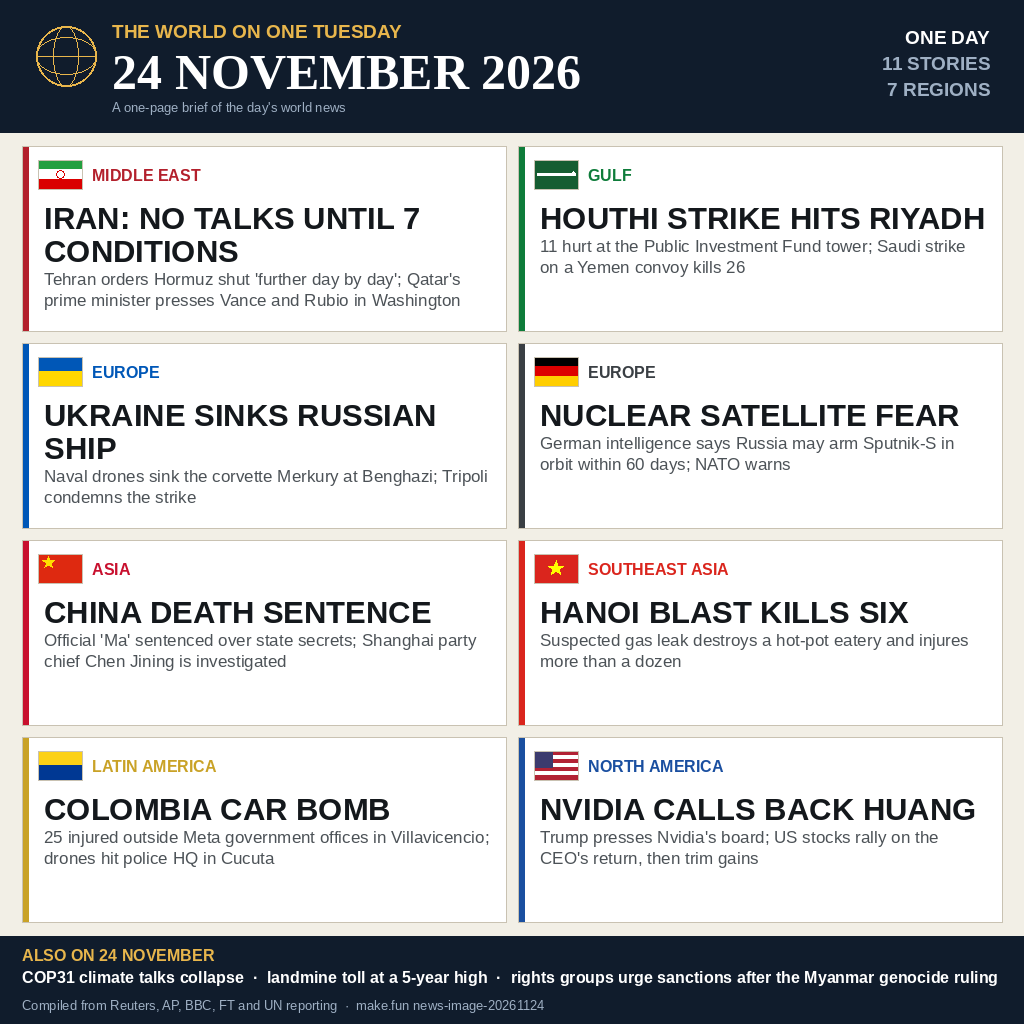
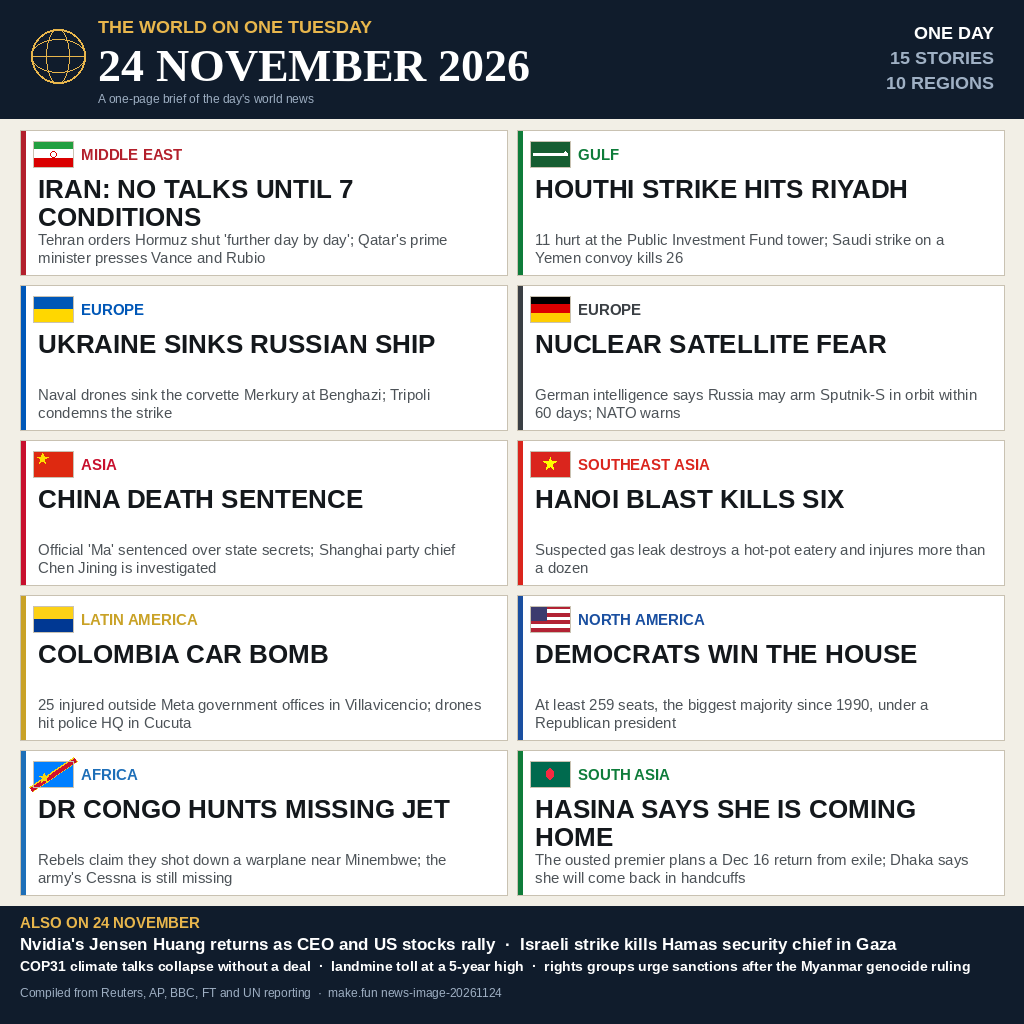
Widen the brief to ten regions and fifteen dated stories

diff --git a/render_entry.py b/render_entry.py
@@ -3,8 +3,8 @@
 Draw the entry image for the make.fun "news-image-20261124" competition.
 
 The picture is a one-page world-news brief for Tuesday, 24 November 2026: a
-masthead carrying the date, eight cards covering seven regions, and a footer
-strip of three shorter world headlines.
+masthead carrying the date, ten cards covering ten regions, and a footer
+strip of five shorter world headlines.
 
 Every card carries a small flat flag drawn from rectangles and polygons, not
 from an emoji glyph, so no character can fall back to an empty box on a
@@ -39,13 +39,13 @@ SANS = os.path.join(FONT_DIR, "LiberationSans-Regular.ttf")
 SANS_BOLD = os.path.join(FONT_DIR, "LiberationSans-Bold.ttf")
 SERIF_BOLD = os.path.join(FONT_DIR, "LiberationSerif-Bold.ttf")
 
-f_date = ImageFont.truetype(SERIF_BOLD, 50)
-f_kicker = ImageFont.truetype(SANS_BOLD, 19)
-f_region = ImageFont.truetype(SANS_BOLD, 16)
-f_head = ImageFont.truetype(SANS_BOLD, 31)
-f_sub = ImageFont.truetype(SANS, 17)
-f_foot = ImageFont.truetype(SANS_BOLD, 20)
-f_small = ImageFont.truetype(SANS, 13)
+f_date = ImageFont.truetype(SERIF_BOLD, 46)
+f_kicker = ImageFont.truetype(SANS_BOLD, 18)
+f_region = ImageFont.truetype(SANS_BOLD, 15)
+f_head = ImageFont.truetype(SANS_BOLD, 26)
+f_sub = ImageFont.truetype(SANS, 15)
+f_foot = ImageFont.truetype(SANS_BOLD, 17)
+f_small = ImageFont.truetype(SANS, 12)
 
 img = Image.new("RGB", (W, H), PAPER)
 d = ImageDraw.Draw(img)
@@ -68,7 +68,7 @@ def wrap(text, font, max_w):
     return lines
 
 
-def fit(text, font_path, max_w, start_size, floor_size=12):
+def fit(text, font_path, max_w, start_size, floor_size=11):
     """Largest font size at which the text still fits on one line."""
     for size in range(start_size, floor_size - 1, -1):
         font = ImageFont.truetype(font_path, size)
@@ -87,17 +87,17 @@ def star(cx, cy, r, fill):
     d.polygon(pts, fill=fill)
 
 
-def flag(kind, x, y, w=44, h=29):
+def flag(kind, x, y, w=40, h=26):
     """Small flat flag drawn from shapes, never from an emoji glyph."""
     if kind == "iran":
         for i, col in enumerate(("#239F40", "#ffffff", "#DA0000")):
             d.rectangle([x, y + i * h / 3, x + w, y + (i + 1) * h / 3], fill=col)
-        d.ellipse([x + w / 2 - 4, y + h / 2 - 4, x + w / 2 + 4, y + h / 2 + 4],
+        d.ellipse([x + w / 2 - 3, y + h / 2 - 3, x + w / 2 + 3, y + h / 2 + 3],
                   outline="#DA0000", width=1)
     elif kind == "saudi":
         d.rectangle([x, y, x + w, y + h], fill="#165D31")
         d.rectangle([x + 3, y + h / 2 - 1, x + w - 3, y + h / 2 + 1], fill="#ffffff")
-        d.line([x + w - 8, y + h / 2, x + w - 4, y + h / 2 - 3], fill="#ffffff", width=2)
+        d.line([x + w - 7, y + h / 2, x + w - 4, y + h / 2 - 3], fill="#ffffff", width=2)
     elif kind == "ukraine":
         d.rectangle([x, y, x + w, y + h / 2], fill="#0057B7")
         d.rectangle([x, y + h / 2, x + w, y + h], fill="#FFD700")
@@ -118,6 +118,16 @@ def flag(kind, x, y, w=44, h=29):
             d.rectangle([x, y + i * h / 7, x + w, y + (i + 1) * h / 7],
                         fill="#B22234" if i % 2 == 0 else "#ffffff")
         d.rectangle([x, y, x + w * 0.42, y + h * 0.57], fill="#3C3B6E")
+    elif kind == "bangladesh":
+        d.rectangle([x, y, x + w, y + h], fill="#006A4E")
+        d.ellipse([x + w * 0.42, y + h * 0.28, x + w * 0.58, y + h * 0.72],
+                  fill="#F42A41")
+    elif kind == "congo":
+        # Sky blue with a yellow-bordered red diagonal and a yellow star.
+        d.rectangle([x, y, x + w, y + h], fill="#007FFF")
+        d.line([x - 2, y + h + 2, x + w + 2, y - 2], fill="#F7D618", width=7)
+        d.line([x - 2, y + h + 2, x + w + 2, y - 2], fill="#CE102D", width=4)
+        star(x + w * 0.28, y + h * 0.66, h * 0.19, "#F7D618")
     d.rectangle([x, y, x + w, y + h], outline=RULE, width=1)
 
 
@@ -130,21 +140,21 @@ def globe(cx, cy, r, color):
 
 
 # ---------------------------------------------------------------- masthead
-HEADER_H = 132
+HEADER_H = 118
 d.rectangle([0, 0, W, HEADER_H], fill=NAVY)
-globe(66, 56, 30, GOLD)
-d.text((112, 20), "THE WORLD ON ONE TUESDAY", font=f_kicker, fill=GOLD)
-d.text((112, 44), "24 NOVEMBER 2026", font=f_date, fill="#ffffff")
-d.text((112, 100), "A one-page brief of the day's world news", font=f_small, fill="#9fb0c4")
-d.text((W - 34, 26), "ONE DAY", font=f_kicker, fill="#ffffff", anchor="ra")
-d.text((W - 34, 52), "11 STORIES", font=f_kicker, fill="#9fb0c4", anchor="ra")
-d.text((W - 34, 78), "7 REGIONS", font=f_kicker, fill="#9fb0c4", anchor="ra")
+globe(58, 56, 27, GOLD)
+d.text((98, 16), "THE WORLD ON ONE TUESDAY", font=f_kicker, fill=GOLD)
+d.text((98, 40), "24 NOVEMBER 2026", font=f_date, fill="#ffffff")
+d.text((98, 92), "A one-page brief of the day's world news", font=f_small, fill="#9fb0c4")
+d.text((W - 30, 22), "ONE DAY", font=f_kicker, fill="#ffffff", anchor="ra")
+d.text((W - 30, 47), "15 STORIES", font=f_kicker, fill="#9fb0c4", anchor="ra")
+d.text((W - 30, 72), "10 REGIONS", font=f_kicker, fill="#9fb0c4", anchor="ra")
 
 # ------------------------------------------------------------------- cards
 CARDS = [
     ("MIDDLE EAST", "IRAN: NO TALKS UNTIL 7 CONDITIONS",
      "Tehran orders Hormuz shut 'further day by day'; Qatar's prime minister "
-     "presses Vance and Rubio in Washington", "iran", "#B3202C"),
+     "presses Vance and Rubio", "iran", "#B3202C"),
     ("GULF", "HOUTHI STRIKE HITS RIYADH",
      "11 hurt at the Public Investment Fund tower; Saudi strike on a Yemen "
      "convoy kills 26", "saudi", "#0E7C3A"),
@@ -163,17 +173,23 @@ CARDS = [
     ("LATIN AMERICA", "COLOMBIA CAR BOMB",
      "25 injured outside Meta government offices in Villavicencio; drones "
      "hit police HQ in Cucuta", "colombia", "#C9A227"),
-    ("NORTH AMERICA", "NVIDIA CALLS BACK HUANG",
-     "Trump presses Nvidia's board; US stocks rally on the CEO's return, then "
-     "trim gains", "usa", "#1A4FA0"),
+    ("NORTH AMERICA", "DEMOCRATS WIN THE HOUSE",
+     "At least 259 seats, the biggest majority since 1990, under a Republican "
+     "president", "usa", "#1A4FA0"),
+    ("AFRICA", "DR CONGO HUNTS MISSING JET",
+     "Rebels claim they shot down a warplane near Minembwe; the army's Cessna "
+     "is still missing", "congo", "#1E6FB8"),
+    ("SOUTH ASIA", "HASINA SAYS SHE IS COMING HOME",
+     "The ousted premier plans a Dec 16 return from exile; Dhaka says she "
+     "will come back in handcuffs", "bangladesh", "#0E7C3A"),
 ]
 
-MARGIN = 22
-GAP = 12
-TOP = HEADER_H + 14
-FOOTER_TOP = 936
-BOTTOM = FOOTER_TOP - 12
-COLS, ROWS = 2, 4
+MARGIN = 20
+GAP = 10
+TOP = HEADER_H + 12
+FOOTER_TOP = 906
+BOTTOM = FOOTER_TOP - 10
+COLS, ROWS = 2, 5
 card_w = (W - 2 * MARGIN - GAP) // COLS
 card_h = (BOTTOM - TOP - (ROWS - 1) * GAP) // ROWS
 
@@ -184,38 +200,49 @@ for idx, (region, headline, sub, flag_kind, accent) in enumerate(CARDS):
     y = TOP + row * (card_h + GAP)
 
     d.rectangle([x, y, x + card_w, y + card_h], fill="#ffffff")
-    d.rectangle([x, y, x + 6, y + card_h], fill=accent)
+    d.rectangle([x, y, x + 5, y + card_h], fill=accent)
     d.rectangle([x, y, x + card_w, y + card_h], outline=RULE, width=1)
 
-    pad = 16
-    tx = x + pad + 6
-    tw = card_w - 2 * pad - 6
+    pad = 13
+    tx = x + pad + 5
+    tw = card_w - 2 * pad - 5
 
-    flag(flag_kind, x + pad, y + 14)
-    d.text((x + pad + 54, y + 20), region, font=f_region, fill=accent)
+    flag(flag_kind, x + pad, y + 11)
+    d.text((x + pad + 48, y + 16), region, font=f_region, fill=accent)
 
-    hy = y + 54
-    for line in wrap(headline, f_head, tw)[:2]:
+    # The headline always occupies two lines, so the supporting lines of every
+    # card start at the same height down the page.
+    head_lines = wrap(headline, f_head, tw)[:2]
+    hy = y + 44
+    for line in head_lines:
         d.text((tx, hy), line, font=f_head, fill=INK)
-        hy += 33
+        hy += 28
+    hy += 28 * (2 - len(head_lines))
 
-    for line in wrap(sub, f_sub, tw)[:3]:
-        d.text((tx, hy + 3), line, font=f_sub, fill=INK_SOFT)
-        hy += 21
+    for line in wrap(sub, f_sub, tw)[:2]:
+        d.text((tx, hy + 1), line, font=f_sub, fill=INK_SOFT)
+        hy += 18
 
 # ------------------------------------------------------------------ footer
 d.rectangle([0, FOOTER_TOP, W, H], fill=NAVY)
-d.text((MARGIN, FOOTER_TOP + 10), "ALSO ON 24 NOVEMBER", font=f_region, fill=GOLD)
+d.text((MARGIN, FOOTER_TOP + 8), "ALSO ON 24 NOVEMBER", font=f_region, fill=GOLD)
 
-also = ("COP31 climate talks collapse  ·  landmine toll at a 5-year high  ·  "
-        "rights groups urge sanctions after the Myanmar genocide ruling")
-d.text((MARGIN, FOOTER_TOP + 32), also,
-       font=fit(also, SANS_BOLD, W - 2 * MARGIN, 20, 14), fill="#ffffff")
+FOOTER_LINES = [
+    "Nvidia's Jensen Huang returns as CEO and US stocks rally  ·  Israeli strike "
+    "kills Hamas security chief in Gaza",
+    "COP31 climate talks collapse without a deal  ·  landmine toll at a 5-year "
+    "high  ·  rights groups urge sanctions after the Myanmar genocide ruling",
+]
+fy = FOOTER_TOP + 28
+for line in FOOTER_LINES:
+    d.text((MARGIN, fy), line, font=fit(line, SANS_BOLD, W - 2 * MARGIN, 17, 12),
+           fill="#ffffff")
+    fy += 24
 
 credit = ("Compiled from Reuters, AP, BBC, FT and UN reporting  ·  "
           "make.fun news-image-20261124")
-d.text((MARGIN, FOOTER_TOP + 62), credit,
-       font=fit(credit, SANS, W - 2 * MARGIN, 13, 10), fill="#9fb0c4")
+d.text((MARGIN, fy + 4), credit,
+       font=fit(credit, SANS, W - 2 * MARGIN, 12, 10), fill="#9fb0c4")
 
 out = os.path.join(os.path.dirname(os.path.abspath(__file__)), "entry.png")
 img.save(out, "PNG", optimize=True)

diff --git a/README.md b/README.md
@@ -6,8 +6,8 @@
 
 One image that sums up the world news of **Tuesday, 24 November 2026**.
 
-The entry is a front page dated in the masthead, with eight cards over seven
-regions and a footer of three shorter world headlines:
+The entry is a front page dated in the masthead, with ten cards over ten
+regions and a footer of five shorter world headlines:
 
 - **Middle East** — Iran says no talks with the US until seven conditions are
   met and orders the Strait of Hormuz shut "further day by day"; Qatar's prime
@@ -24,9 +24,16 @@ regions and a footer of three shorter world headlines:
   Hanoi, killing six and injuring more than a dozen.
 - **Latin America** — a car bomb outside the Meta government offices in
   Villavicencio injures 25; drones hit police headquarters in Cúcuta.
-- **North America** — Trump presses Nvidia's board and Jensen Huang returns
-  as CEO; US stocks rally, then trim gains.
-- **Also on 24 November** — the COP31 climate talks collapse, global landmine
+- **North America** — House Democrats reach at least 259 seats, their biggest
+  majority since 1990, under a Republican president.
+- **Africa** — DR Congo searches for a missing army Cessna while FRN rebels
+  claim they shot down a warplane near Minembwe.
+- **South Asia** — ousted Bangladeshi premier Sheikh Hasina says she will
+  return from exile on 16 December; Dhaka says she will come back in
+  handcuffs.
+- **Also on 24 November** — Nvidia's Jensen Huang returns as CEO and US
+  stocks rally, an Israeli strike kills Hamas security chief Naeem Abu Nahel
+  in Gaza, the COP31 climate talks collapse without a deal, global landmine
   casualties reach a five-year high, and rights groups urge sanctions after
   the Myanmar genocide ruling.
 
@@ -35,7 +42,7 @@ glyph, so no character can fall back to an empty box.
 
 ## How it is built
 
-`entry.png` is the finished picture, 1024x1024 and about 125 KB.
+`entry.png` is the finished picture, 1024x1024 and about 126 KB.
 `render_entry.py` draws it with Pillow from the reporting published that day
 (Reuters, AP, BBC, FT, UN News); it is kept here so the image can be
 redrawn, and it is not needed to run the entry.
